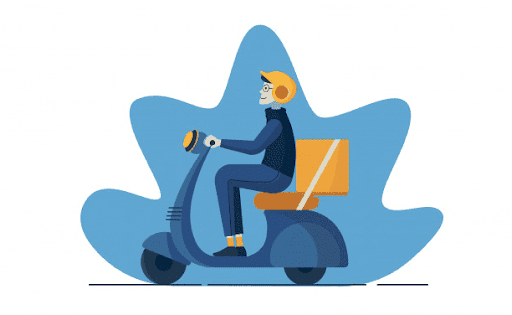
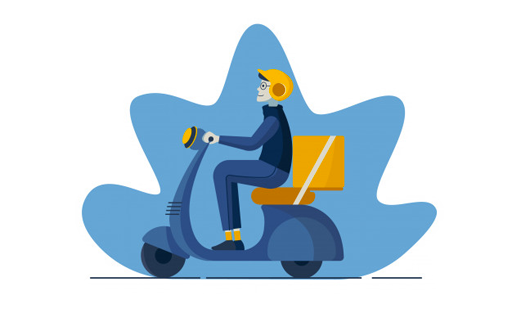
ultimos cambios 3 de mayo

diff --git a/index.html b/index.html
@@ -73,7 +73,7 @@
 
                 <div class="header__texto mb-4">
                     <div class="mb-4 mt-5">
-                        <img style="height: 200px; width: auto; margin-bottom: 10px;" src="assets/img/vector_header.svg"
+                        <img style="height: 220px; width: auto; margin-bottom: 20px;" src="assets/img/vector_header.svg"
                             alt="">
                         <h5>SUSCRÍBETE</h5>
                         <h2>desde<span> $9.990 </span>al mes</h2>
@@ -105,7 +105,7 @@
         <div class="funciona">
             <img src="./assets/img/image4.png" alt="">
             <h2>Nº1 <span>SUSCRIBETE POR <br>$9.990 AL MES</span></h2>
-            <p>Recibe una caja con 2 cafés de diferentes variedades de 250 grs y la revista Club CoffeeNest.</p>
+            <p>Recibe una caja con 2 cafés de diferentes variedades de 250 grs. y la revista Club CoffeeNest.</p>
         </div>
 
         <div class="funciona">
@@ -129,16 +129,7 @@
         </div>
     </div>
     
-    
-    
-        <!-- <div class="funciona">
-            <img src="./assets/img/unnamed.jpg" alt="">
-            <h2>Nº1 <span>SUSCRIBETE POR <br>$9.990 AL MES</span></h2>
-            <p>Recibe una caja con 2 cafés de diferentes variedades de 250 grs y la revista Club CoffeeNest.</p>
-        </div> -->
-    
-    
-    
+
     </section>
 
     <!-- Club de Café -->

diff --git a/assets/css/style.css b/assets/css/style.css
@@ -546,7 +546,8 @@ footer p{
     }
 
     #comofunciona h1{
-        margin: 100px 0;
+        padding: 100px 0 0 0;
+        margin:0 0 100px 0;
         text-transform: uppercase;
         font-family: 'Montserrat', sans-serif;
         font-size: 30px;
